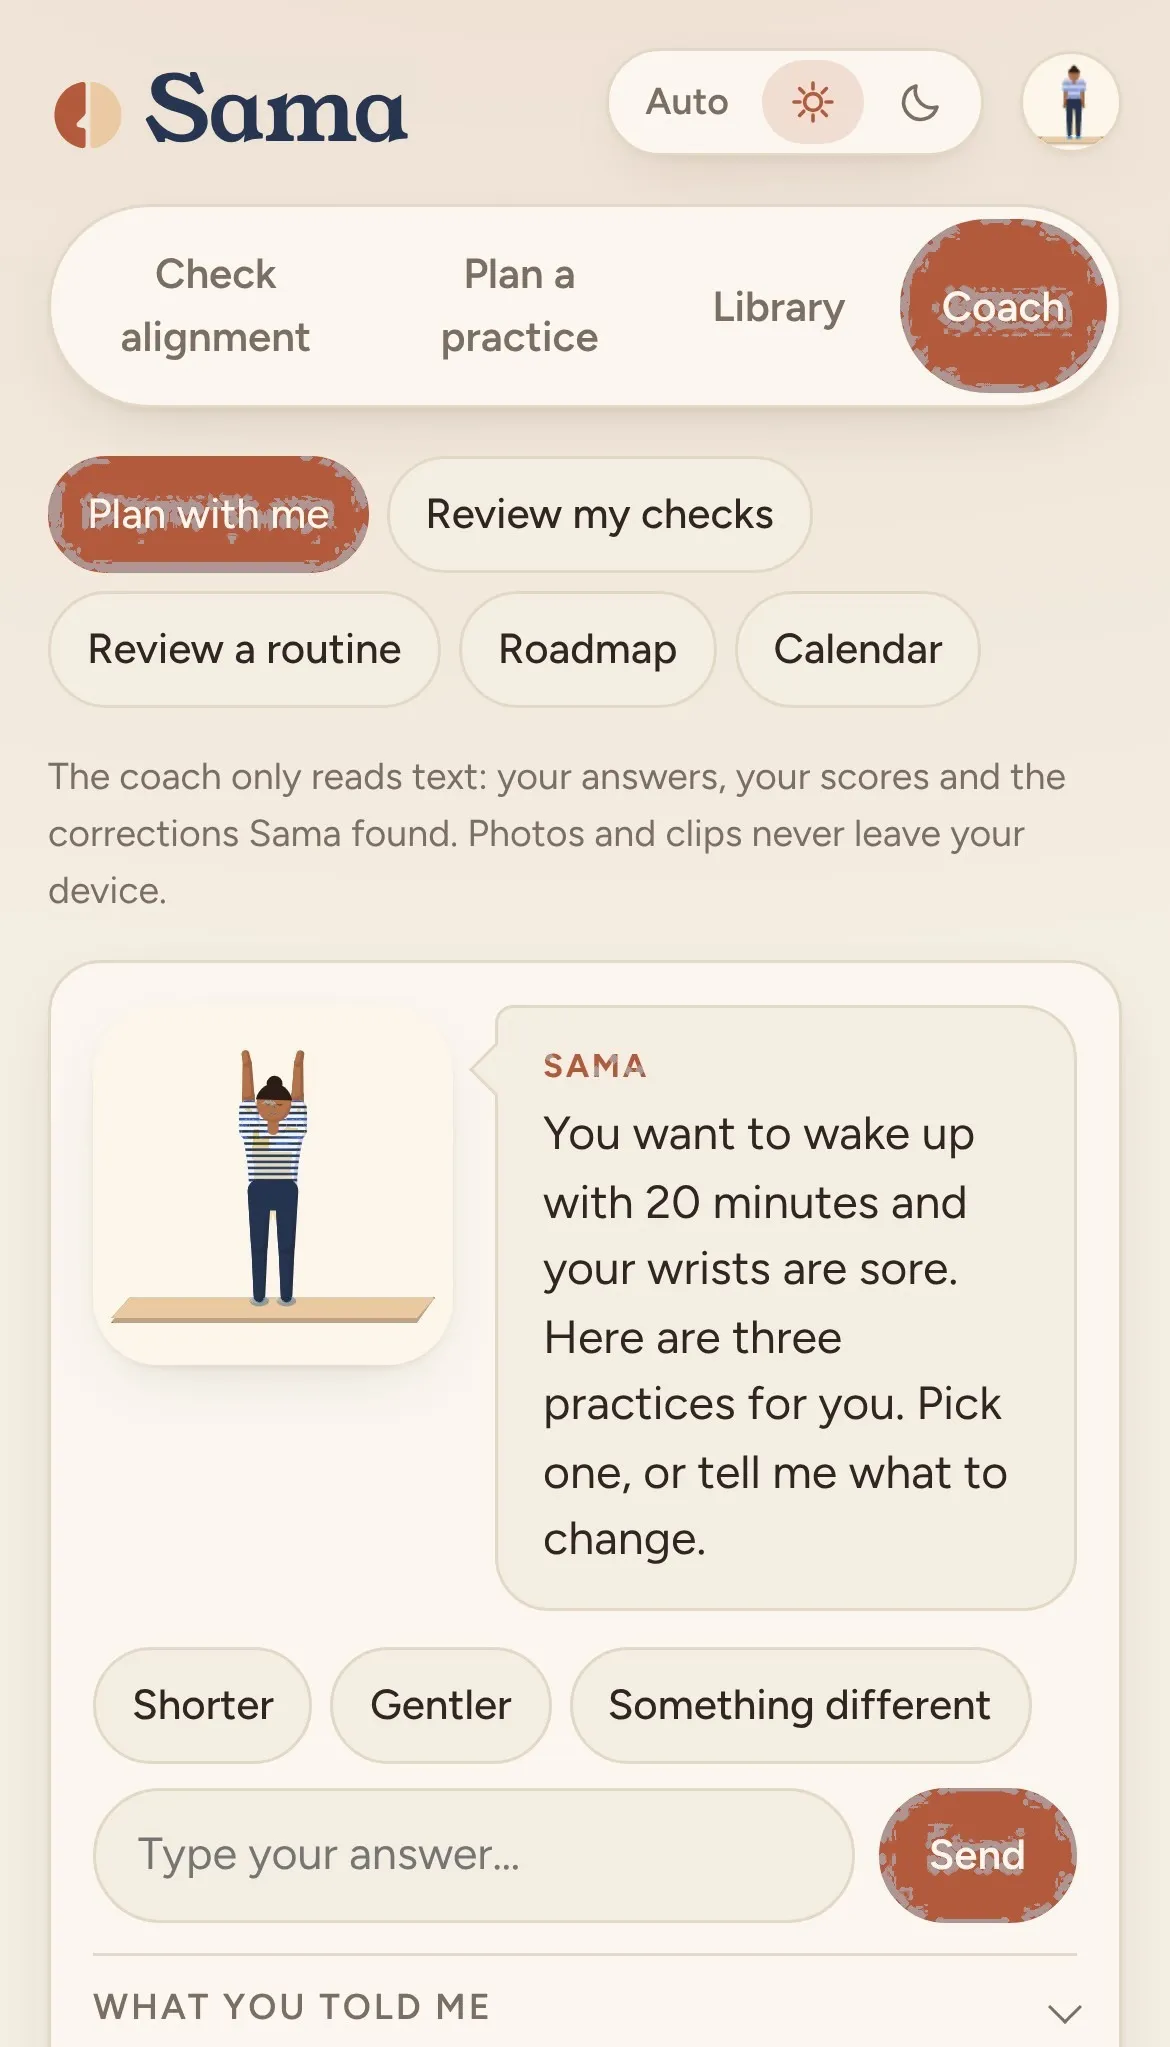
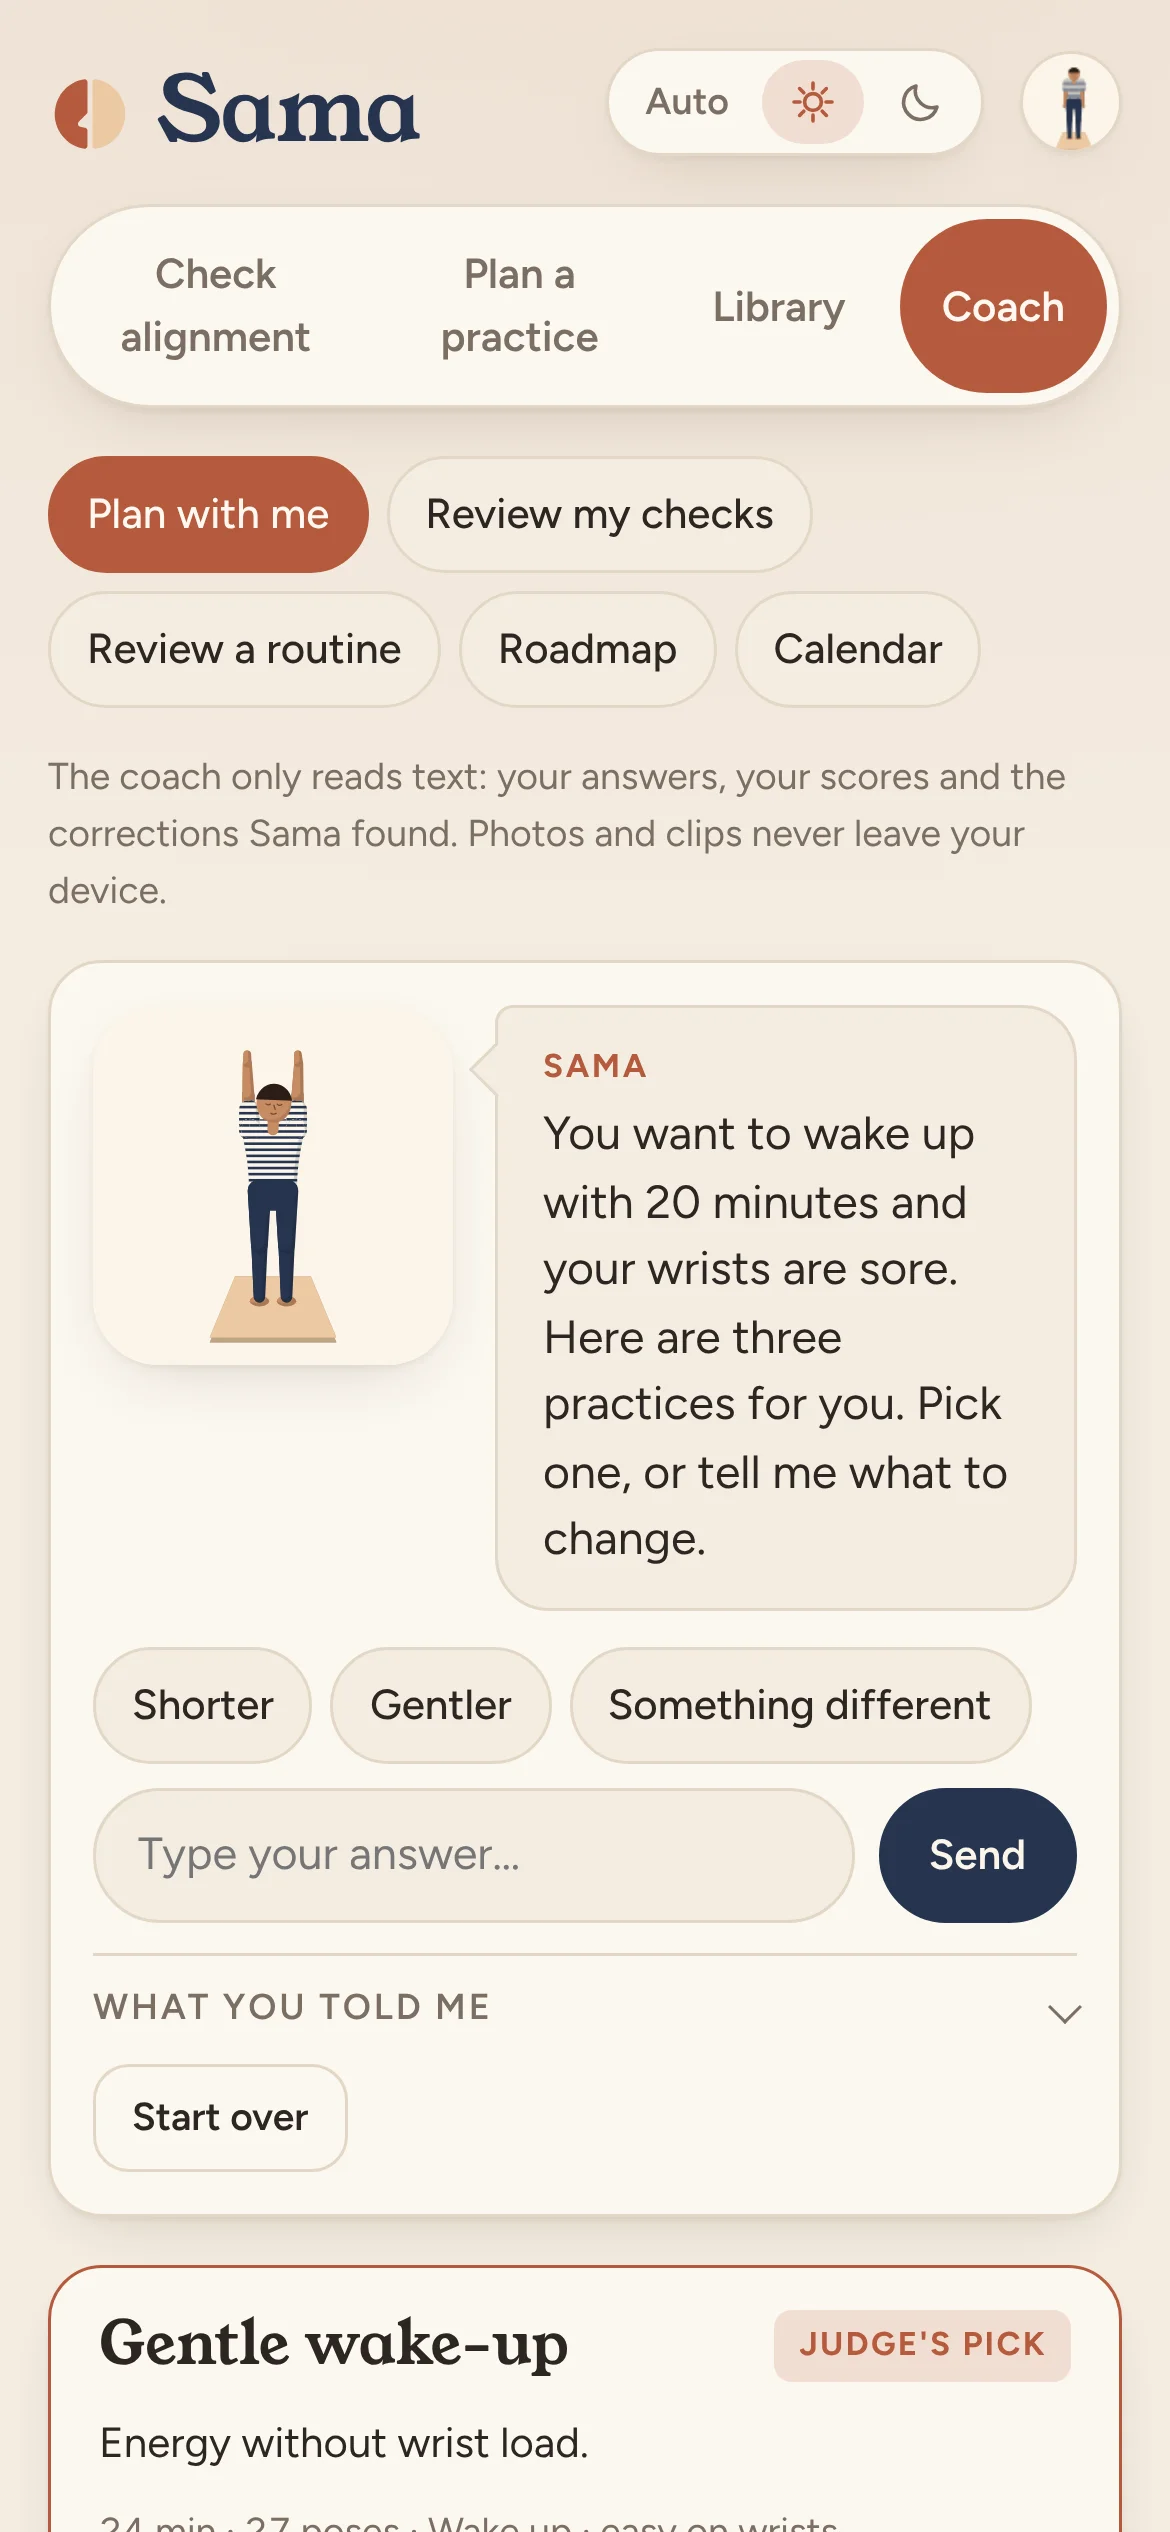
About page: clean phone screenshots of the coach, judge and review screens in the new colours
Claude-Session: https://claude.ai/code/session_01CBUG9Q88XkUZkxy4fPrrKj

diff --git a/about/index.html b/about/index.html
@@ -190,15 +190,15 @@ footer{padding-block:28px;font-size:14px;color:var(--muted)}
     </div>
     <div class="feature flip">
       <div class="ftext"><p class="eyebrow">Plan with me</p><h3>One question at a time</h3><p class="muted">A guided intake asks what you want, how long you have and what hurts, then offers three practices to choose from.</p></div>
-      <div class="phone"><img src="/about/img/coach.webp" alt="The coach screen asking a question, with answer chips and three suggested practices" width="1170" height="2047" decoding="async"></div>
+      <div class="phone"><img src="/about/img/coach.webp" alt="The coach screen asking a question, with answer chips and three suggested practices" width="1170" height="2532" decoding="async"></div>
     </div>
     <div class="feature">
       <div class="ftext"><p class="eyebrow">Review my checks</p><h3>Scores, strengths and what to fix first</h3><p class="muted">The coach reads your measured angles and hold times, gives a score out of 100, and plans a next practice that targets the gaps.</p></div>
-      <div class="phone"><img src="/about/img/feedback.webp" alt="The review screen with a score of 72, strengths, what to work on and a next practice" width="1170" height="2047" decoding="async"></div>
+      <div class="phone"><img src="/about/img/feedback.webp" alt="The review screen with a score of 72, strengths, what to work on and a next practice" width="1170" height="2532" decoding="async"></div>
     </div>
     <div class="feature flip">
       <div class="ftext"><p class="eyebrow">LLM as a judge</p><h3>A second model grades the first</h3><p class="muted">Every plan is scored for safety, fit, sequencing and balance by a separate call. The best one is marked “Judge’s pick”.</p></div>
-      <div class="phone"><img src="/about/img/judge.webp" alt="Practice cards with judge scores for safety, fit, sequencing and balance" width="1170" height="2047" decoding="async"></div>
+      <div class="phone"><img src="/about/img/judge.webp" alt="Practice cards with judge scores for safety, fit, sequencing and balance" width="1170" height="2532" decoding="async"></div>
     </div>
     <div class="feature">
       <div class="ftext"><p class="eyebrow">Guided practice</p><h3>A calm voice guides every pose</h3><p class="muted">Sama speaks each pose and the movement in between, adds wrist care before Down Dog, and puts your practice days in the calendar.</p></div>
